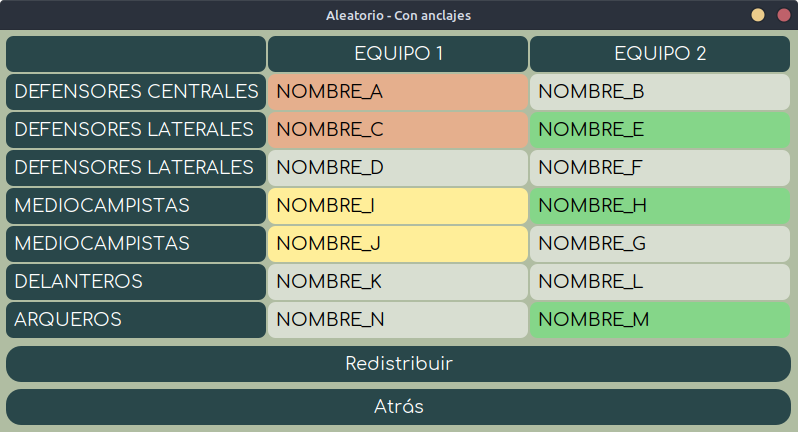
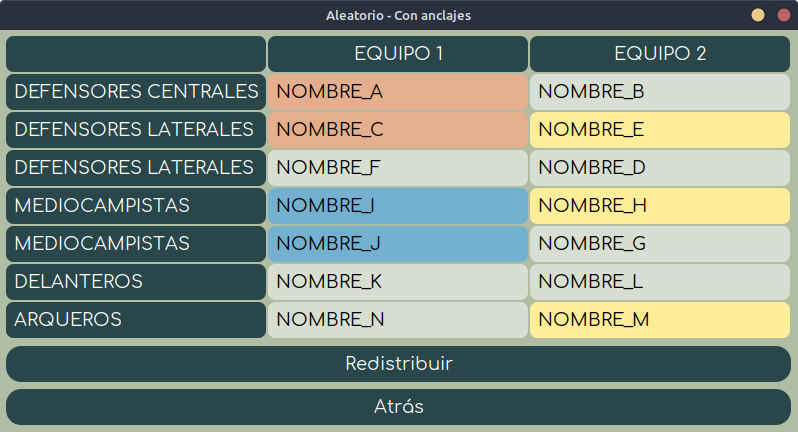
reorder anchorages colors

Changed region(s): [[0.3308, 0.2407, 0.9925, 0.6319], [0.6617, 0.6921, 0.9925, 0.7824]]

diff --git a/src/main/java/armameeldoparti/utils/common/Constants.java b/src/main/java/armameeldoparti/utils/common/Constants.java
@@ -67,9 +67,9 @@ public final class Constants {
   private static final String HEX_CODE_GREEN_LIGHT = "#b0bda2";
   private static final String HEX_CODE_GREEN_LIGHT_WHITE = "#d8ded1";
   private static final String HEX_CODE_ANCHORAGE_COLOR_1 = "#e5af8d";
-  private static final String HEX_CODE_ANCHORAGE_COLOR_2 = "#ffee99";
-  private static final String HEX_CODE_ANCHORAGE_COLOR_3 = "#85d689";
-  private static final String HEX_CODE_ANCHORAGE_COLOR_4 = "#74b1d1";
+  private static final String HEX_CODE_ANCHORAGE_COLOR_2 = "#74b1d1";
+  private static final String HEX_CODE_ANCHORAGE_COLOR_3 = "#ffee99";
+  private static final String HEX_CODE_ANCHORAGE_COLOR_4 = "#85d689";
   private static final String HEX_CODE_ANCHORAGE_COLOR_5 = "#a995c9";
   private static final String HEX_CODE_ANCHORAGE_COLOR_6 = "#f27c7c";
   private static final String MIG_LAYOUT_ALIGN = "align";
